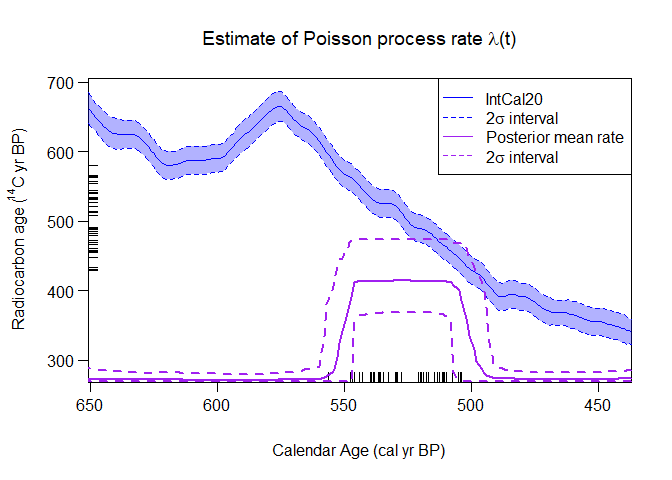
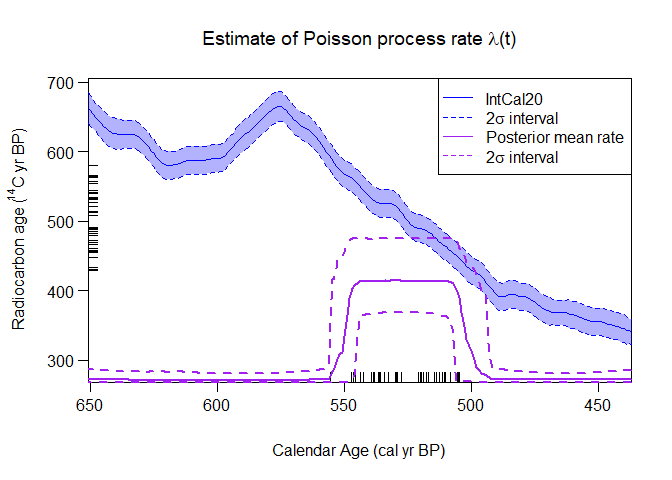
Updating vignettes and documentation

diff --git a/README.md b/README.md
@@ -64,10 +64,14 @@ Non-Parametric Density calibration functions. `pp_uniform_phase` is
 another small simulated dataset, for which the underlying calendar ages
 were drawn uniformly at random from a short calendar interval
 (equivalent to a single uniform phase). This is included to give a
-quick-to-run example for the Poisson Process modelling functions. The
-remaining datasets are from real-life data. The Northern Hemisphere
-IntCal calibration curves and Southern Hemisphere SHCal calibration
-curves are also provided.
+quick-to-run example for the Poisson Process modelling functions. There
+are analogous simulated datasets from marine environments
+`pp_uniform_phase_marine` and mixed environments
+`pp_uniform_phase)mixed`. The remaining datasets are from real-life
+data. The Northern Hemisphere IntCalXX calibration curves, Southern
+Hemisphere SHCalXX calibration curves, and surface-ocean MarineXX
+calibration curves are also provided (the most recent curves, published
+in 2020, are `intcal20`,`shcal20`, and `marine20`).
 
 ## Bayesian Non-Parametric Calibration: Quick-Start Example
 
@@ -111,7 +115,7 @@ using the simulated `pp_uniform_phase` data and the IntCal20 curve.
 pp_output <- PPcalibrate(
   rc_determinations = pp_uniform_phase$c14_age,
   rc_sigmas = pp_uniform_phase$c14_sig,
-  calibration_curve=intcal20)
+  calibration_curve = intcal20)
 ```
 
 Once the calibration has been run, the posterior estimate for the

diff --git a/NEWS.md b/NEWS.md
@@ -1,6 +1,7 @@
 # carbondate (development version)
 
-* Added PPcalibrateMixedCurves to allow Poisson process summarisation of sets of sampels from a range of NH, SH and Marine environments
+* Added PPcalibrateMixedCurves() to allow Poisson process summarisation of sets of 14C samples from a range of NH, SH and Marine environments
+* Updated PPcalibrate(), PolyaUrnBivarDirichlet(), WalkerBivarDirichlet(), and CalibrateSingleDetermination() to allow marine calibration with a single DeltaR  
 * Added marine calibration curves to data (Marine20, Marine13, Marine09, and Marine04)
 * Added functions AddTextPlot(), AddLinePlot(), and AddShadingPlot() to enable users to overlay text and shading onto summary plots. This required edits to the summary plotting functions so they returned a list, with plotting par being the 2nd list component.  
 * Fixed warning in find_predictive_density.cpp by using return std::move(retdata) where retdata was just named local variable